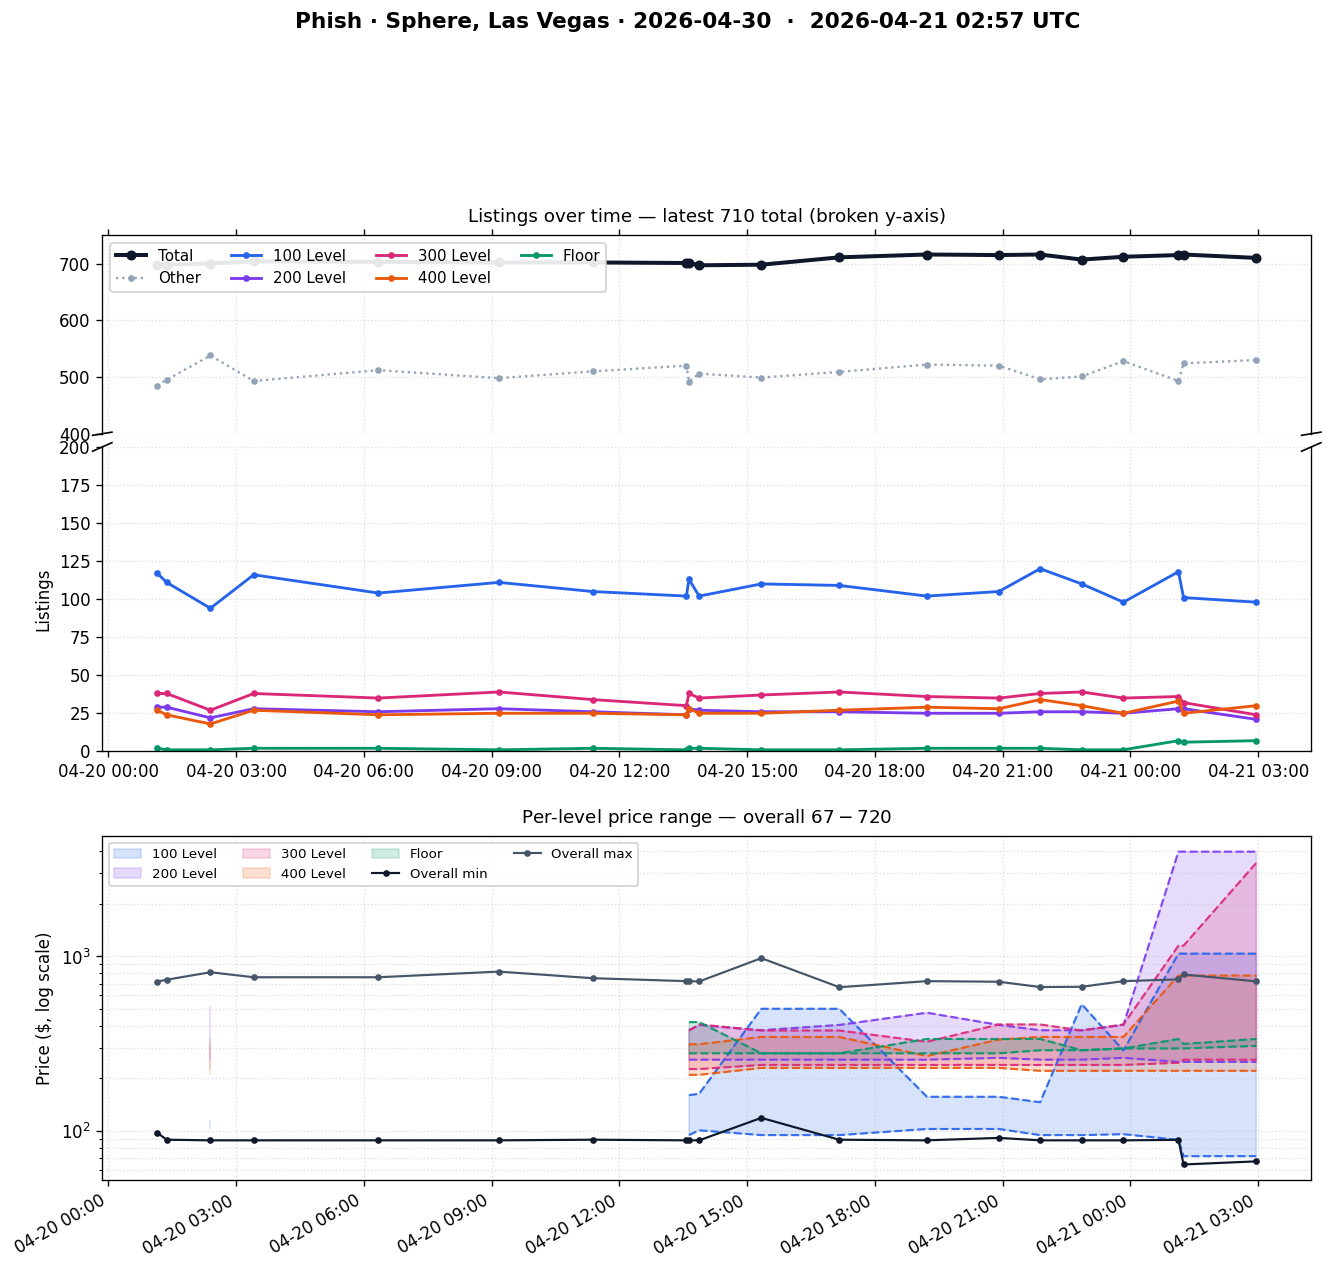
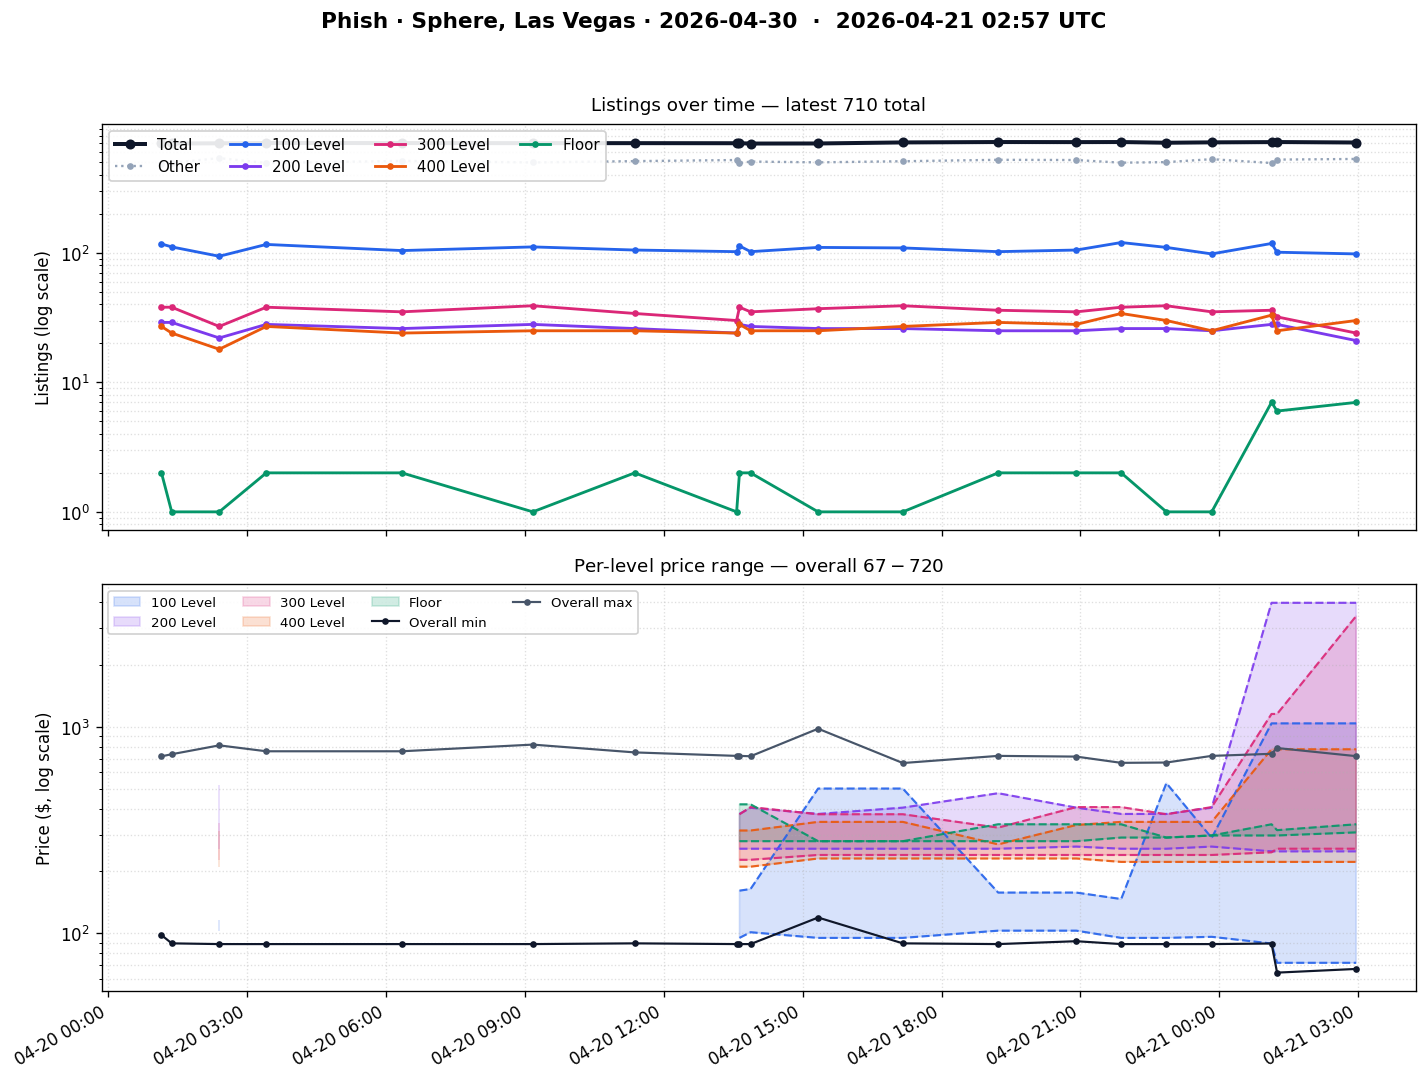
log-scale both axes; interactive Plotly charts with hover tooltips

diff --git a/plot.py b/plot.py
@@ -1,4 +1,4 @@
-"""Render chart.png from data.csv with broken y-axis for listing counts."""
+"""Render chart.png: listings and prices over time, both log-scale."""
 
 from __future__ import annotations
 
@@ -24,76 +24,6 @@ LEVELS = [
     ("floor", "Floor", "#059669"),
 ]
 
-TOP_YMIN, TOP_YMAX = 400, 750     # total + other land here
-BOT_YMIN, BOT_YMAX = 0, 200        # per-level counts land here
-
-
-def _plot_counts(ax_top, ax_bot, df):
-    """Plot the same count series on both axes — they'll each show only their range."""
-    for ax in (ax_top, ax_bot):
-        ax.plot(
-            df["timestamp_utc"], df["total_listings"],
-            color="#0f172a", linewidth=2.4, marker="o", markersize=5, label="Total",
-        )
-        if "count_other" in df.columns and df["count_other"].notna().any():
-            ax.plot(
-                df["timestamp_utc"], df["count_other"],
-                color="#94a3b8", linewidth=1.4, linestyle=":", marker="o", markersize=3, label="Other",
-            )
-        for key, label, color in LEVELS:
-            col = f"count_{key}"
-            if col in df.columns and df[col].notna().any():
-                ax.plot(
-                    df["timestamp_utc"], df[col],
-                    color=color, linewidth=1.7, marker="o", markersize=3, label=label,
-                )
-
-    ax_top.set_ylim(TOP_YMIN, TOP_YMAX)
-    ax_bot.set_ylim(BOT_YMIN, BOT_YMAX)
-
-    # Hide the seam between the two axes
-    ax_top.spines["bottom"].set_visible(False)
-    ax_bot.spines["top"].set_visible(False)
-    ax_top.tick_params(labelbottom=False, bottom=False)
-    ax_top.xaxis.tick_top()
-
-    # Diagonal break marks
-    d = 0.008
-    kw = dict(transform=ax_top.transAxes, color="k", clip_on=False, linewidth=1)
-    ax_top.plot((-d, +d), (-d, +d), **kw)
-    ax_top.plot((1 - d, 1 + d), (-d, +d), **kw)
-    kw.update(transform=ax_bot.transAxes)
-    h = (TOP_YMAX - TOP_YMIN) / (BOT_YMAX - BOT_YMIN)  # adjust break size per-axis height
-    ax_bot.plot((-d, +d), (1 - d * h, 1 + d * h), **kw)
-    ax_bot.plot((1 - d, 1 + d), (1 - d * h, 1 + d * h), **kw)
-
-    for ax in (ax_top, ax_bot):
-        ax.grid(True, linestyle=":", alpha=0.4)
-
-    ax_top.legend(loc="upper left", framealpha=0.9, fontsize=9, ncol=4)
-
-
-def _plot_prices(ax, df):
-    for key, label, color in LEVELS:
-        mn, mx = f"min_{key}", f"max_{key}"
-        if mn in df.columns and mx in df.columns and df[mn].notna().any():
-            ax.fill_between(
-                df["timestamp_utc"], df[mn], df[mx],
-                color=color, alpha=0.18, label=f"{label}",
-            )
-            ax.plot(df["timestamp_utc"], df[mn], color=color, linewidth=1.3, linestyle="--", alpha=0.9)
-            ax.plot(df["timestamp_utc"], df[mx], color=color, linewidth=1.3, linestyle="--", alpha=0.9)
-
-    if df["min_price"].notna().any():
-        ax.plot(df["timestamp_utc"], df["min_price"], color="#0f172a", linewidth=1.3, marker="o", markersize=3, label="Overall min")
-    if df["max_price"].notna().any():
-        ax.plot(df["timestamp_utc"], df["max_price"], color="#475569", linewidth=1.3, marker="o", markersize=3, label="Overall max")
-
-    ax.set_yscale("log")
-    ax.set_ylabel("Price ($, log scale)")
-    ax.grid(True, linestyle=":", alpha=0.4, which="both")
-    ax.legend(loc="upper left", framealpha=0.9, fontsize=8, ncol=4)
-
 
 def main() -> int:
     if not DATA.exists():
@@ -106,26 +36,55 @@ def main() -> int:
         print("no valid rows to plot", file=sys.stderr)
         return 1
 
-    fig = plt.figure(figsize=(13, 11))
-    gs = fig.add_gridspec(3, 1, height_ratios=[0.75, 1.15, 1.3], hspace=0.1)
-    ax_count_top = fig.add_subplot(gs[0])
-    ax_count_bot = fig.add_subplot(gs[1], sharex=ax_count_top)
-    ax_price = fig.add_subplot(gs[2], sharex=ax_count_top)
-    # Shrink hspace between the two count panels to make the break feel like one chart
-    gs.update(hspace=0.3)
-    pos_top = ax_count_top.get_position()
-    pos_bot = ax_count_bot.get_position()
-    ax_count_top.set_position([pos_top.x0, pos_bot.y1 + 0.01, pos_top.width, pos_top.height])
+    fig, (ax_count, ax_price) = plt.subplots(
+        2, 1, figsize=(12, 9), sharex=True,
+    )
 
-    _plot_counts(ax_count_top, ax_count_bot, df)
-    ax_count_bot.set_ylabel("Listings")
-    ax_count_top.set_title(
-        f"Listings over time — latest {int(df.iloc[-1]['total_listings'])} total (broken y-axis)",
+    # Counts: log scale
+    ax_count.plot(
+        df["timestamp_utc"], df["total_listings"],
+        color="#0f172a", linewidth=2.4, marker="o", markersize=5, label="Total",
+    )
+    if "count_other" in df.columns and df["count_other"].notna().any():
+        ax_count.plot(
+            df["timestamp_utc"], df["count_other"],
+            color="#94a3b8", linewidth=1.4, linestyle=":", marker="o", markersize=3, label="Other",
+        )
+    for key, label, color in LEVELS:
+        col = f"count_{key}"
+        if col in df.columns and df[col].notna().any():
+            ax_count.plot(
+                df["timestamp_utc"], df[col],
+                color=color, linewidth=1.7, marker="o", markersize=3, label=label,
+            )
+    ax_count.set_yscale("log")
+    ax_count.set_ylabel("Listings (log scale)")
+    ax_count.grid(True, linestyle=":", alpha=0.4, which="both")
+    ax_count.legend(loc="upper left", framealpha=0.9, fontsize=9, ncol=4)
+    latest = df.iloc[-1]
+    ax_count.set_title(
+        f"Listings over time — latest {int(latest['total_listings'])} total",
         fontsize=11, pad=8,
     )
 
-    _plot_prices(ax_price, df)
-    latest = df.iloc[-1]
+    # Prices: log scale
+    for key, label, color in LEVELS:
+        mn, mx = f"min_{key}", f"max_{key}"
+        if mn in df.columns and mx in df.columns and df[mn].notna().any():
+            ax_price.fill_between(
+                df["timestamp_utc"], df[mn], df[mx],
+                color=color, alpha=0.18, label=label,
+            )
+            ax_price.plot(df["timestamp_utc"], df[mn], color=color, linewidth=1.3, linestyle="--", alpha=0.9)
+            ax_price.plot(df["timestamp_utc"], df[mx], color=color, linewidth=1.3, linestyle="--", alpha=0.9)
+    if df["min_price"].notna().any():
+        ax_price.plot(df["timestamp_utc"], df["min_price"], color="#0f172a", linewidth=1.3, marker="o", markersize=3, label="Overall min")
+    if df["max_price"].notna().any():
+        ax_price.plot(df["timestamp_utc"], df["max_price"], color="#475569", linewidth=1.3, marker="o", markersize=3, label="Overall max")
+    ax_price.set_yscale("log")
+    ax_price.set_ylabel("Price ($, log scale)")
+    ax_price.grid(True, linestyle=":", alpha=0.4, which="both")
+    ax_price.legend(loc="upper left", framealpha=0.9, fontsize=8, ncol=4)
     if pd.notna(latest.get("min_price")) and pd.notna(latest.get("max_price")):
         ax_price.set_title(
             f"Per-level price range — overall ${latest['min_price']:.0f}-${latest['max_price']:.0f}",
@@ -136,14 +95,13 @@ def main() -> int:
     if len(df) < 3:
         center = df["timestamp_utc"].iloc[-1]
         ax_price.set_xlim(center - pd.Timedelta(hours=6), center + pd.Timedelta(hours=6))
-    for label in ax_price.get_xticklabels():
-        label.set_rotation(30)
-        label.set_ha("right")
+    fig.autofmt_xdate()
 
     fig.suptitle(
         f"{EVENT_LABEL}  ·  {latest['timestamp_utc']:%Y-%m-%d %H:%M UTC}",
         fontsize=13, fontweight="bold", y=0.995,
     )
+    fig.tight_layout(rect=[0, 0, 1, 0.97])
     fig.savefig(OUT, dpi=120, bbox_inches="tight")
     print(f"wrote {OUT} ({len(df)} rows)")
     return 0
